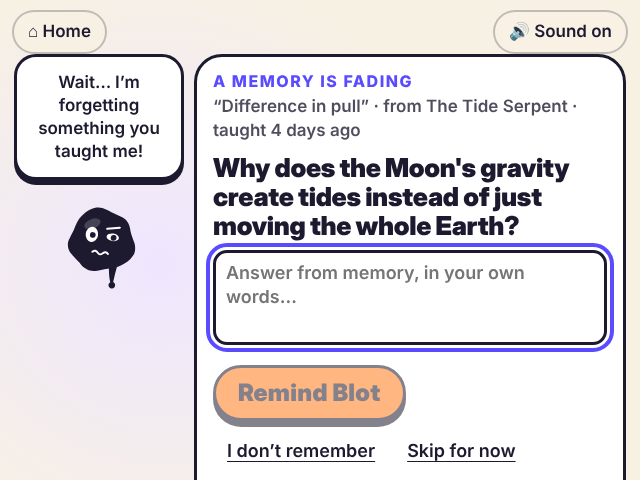
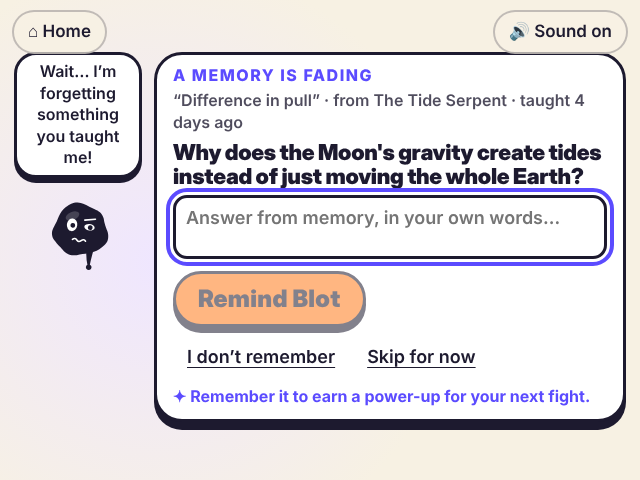
Fix the failed CI run: the flashback fits a 640x480 window with the runner's fonts
smoke:small failed on GitHub: in a 640x480 window the flashback's "Skip for now" sat at y 458-502.
The runner has no Inter, so the page falls back to DejaVu Sans, which is wider and wraps to more lines.
It passed on the dev machine because every font there resolves to Inter.

- The flashback card is made to fit a short, wide window: a narrower Blot column, a tighter card, a 22 px
  question, a shorter answer box, and a verdict header with the "checked by" line at the card's full width.
  No text goes under 16 px. The result card no longer scrolls its header under the top buttons.
- When a verdict is taller than the window (a long sentence from the grader), Continue stays pinned at the bottom.
- smoke:small forces DejaVu Sans by default, so it gives the same result on any machine that has it and would
  have caught this before the push (SMOKE_FONT= keeps the page's own fonts). Wide-font screenshots go to
  docs/shots/stress/ (ignored); the two flashback pictures in the docs are refreshed.
- Two failure screenshots committed by mistake (phone-99, small-99) are removed and ignored.

Checked: npm run check, and smoke:demo --fast, loop, small, guest and ext, all with every font on the machine
resolving to DejaVu Sans, as on the runner.

Claude-Session: https://claude.ai/code/session_01CUEnHw6YbP4y3NnKELNhtE

diff --git a/extension/styles/game.css b/extension/styles/game.css
@@ -625,14 +625,18 @@ button, a.primary { font: inherit; }
   .blot-foot { position: sticky; bottom: 0; z-index: 4; flex-wrap: wrap; justify-content: center; gap: 8px 16px; padding: 10px 0 12px; background: linear-gradient(rgba(247, 241, 227, 0), var(--paper) 28%); }
 
   /* flashback */
-  .screen-flashback { grid-template-columns: minmax(0, 1fr); align-content: start; gap: 10px; padding: 54px 14px 14px; }
+  /* No bottom padding on the screen: a pinned button then sits flush with the window, and the card keeps its own margin. */
+  .screen-flashback { grid-template-columns: minmax(0, 1fr); align-content: start; gap: 10px; padding: 54px 14px 0; }
   .flash-blot { grid-template-columns: auto minmax(0, 1fr); align-items: center; gap: 8px; }
   .flash-blot .blot { order: -1; width: 96px !important; height: 110px !important; }
   .flash-bubble { max-width: none; text-align: left; font-size: 17px; }
-  .flash-card { padding: 16px 16px; gap: 10px; max-width: 100%; }
+  .flash-card { padding: 16px 16px; gap: 10px; max-width: 100%; margin-bottom: 14px; }
   .flash-question { font-size: 26px; }
   .flash-input { min-height: 72px; }
   .flash-actions { gap: 8px; }
+  /* The verdict can be long (a sentence from the grader, the model answer): when the card is taller than the window the
+     rest scrolls and Continue stays pinned at the bottom. Its padding sits inside the card's own bottom padding. */
+  .flash-card.result .flash-actions { position: sticky; bottom: 0; z-index: 3; padding-bottom: 10px; margin-bottom: -10px; background: #fff; }
   .score-ring { width: 84px; height: 84px; }
   .score-ring span { width: 64px; height: 64px; font-size: 30px; }
 
@@ -674,12 +678,34 @@ button, a.primary { font: inherit; }
   .duel-result-card .duel-actions { flex-wrap: wrap; justify-content: center; }
 }
 
-/* A short, wide window (640x480): Blot beside the flashback card, not above it. */
+/* A short, wide window (640x480): Blot beside the flashback card, not above it, and a card made to fit the height
+   (question, answer box, the three buttons) even when the fallback font is wide. No text goes under 16 px. */
 @media (min-width: 600px) and (max-height: 560px) {
-  .screen-flashback { grid-template-columns: 170px minmax(0, 1fr); align-items: start; }
-  .flash-blot { grid-template-columns: 1fr; justify-items: center; }
-  .flash-blot .blot { order: 0; }
-  .flash-bubble { text-align: center; }
+  .screen-flashback { grid-template-columns: 128px minmax(0, 1fr); align-items: start; gap: 12px; padding: 52px 14px 0; }
+  .flash-blot { grid-template-columns: 1fr; justify-items: center; gap: 8px; }
+  .flash-blot .blot { order: 0; width: 80px !important; height: 92px !important; }
+  .flash-bubble { text-align: center; font-size: 16px; padding: 6px 8px; }
+  .flash-card { padding: 12px 16px; gap: 6px; }
+  .flash-from { margin: 0; font-size: 16px; }
+  .flash-question { font-size: 22px; }
+  .flash-input { height: 64px; min-height: 64px; }
+  #flash-note:empty { margin-top: -6px; }
+  .flash-reward { font-size: 16px; }
+  /* The verdict: the ring and the sentence side by side, the "checked by" line under both at the card's full width. */
+  .flash-result-head { display: grid; grid-template-columns: auto minmax(0, 1fr); gap: 2px 14px; align-items: center; }
+  .flash-verdict { display: contents; }
+  .flash-result-head .score-ring { grid-row: 1 / span 2; }
+  .flash-result-head .card-kicker { grid-column: 2; align-self: end; }
+  .flash-feedback { grid-column: 2; margin-top: 2px; font-size: 18px; }
+  .checked-by { grid-column: 1 / -1; margin-top: 4px; }
+  .score-ring { width: 72px; height: 72px; }
+  .score-ring span { width: 54px; height: 54px; font-size: 26px; }
+  .flash-answer { padding: 8px 12px; }
+  .flash-answer p { font-size: 17px; line-height: 1.35; }
+  .earned { gap: 10px; padding: 8px 12px; }
+  .earned-icon { width: 44px; height: 44px; font-size: 22px; }
+  .earned-name { font-size: 22px; }
+  .earned-what { font-size: 16px; }
 }
 
 @media (max-width: 599px) {

diff --git a/extension/src/game/screens/flashback.ts b/extension/src/game/screens/flashback.ts
@@ -206,7 +206,7 @@ export async function flashbackScreen(opts: FlashbackOptions): Promise<Flashback
       ring,
       h(
         'div',
-        null,
+        { class: 'flash-verdict' },
         h('p', { class: 'card-kicker' }, kicker),
         h('p', { class: 'flash-feedback', id: 'flash-feedback' }, graded.feedback || feedbackFor(graded, gradeOf)),
         got.answer

diff --git a/README.md b/README.md
@@ -180,7 +180,7 @@ A challenge for a real page lives on your server, so it opens the game your serv
 | `npm run smoke:demo` | Plays a demo round end to end in Chromium; screenshots to `docs/shots/`. Flags: `--lose`, `--no-art`, `--reduced`, `--live` (AI_STUB server), `--real` (real AI), `--blocked` / `--drop` (server cut off), `--fast`. |
 | `npm run smoke:ext` | Loads the extension, checks the first-use notice, Cancel, the options page and token, and that the game tab's monster is built from the page's words. |
 | `npm run smoke:loop` | The learning loop end to end: memories, flashback, coach, comeback, duel, resume after reload, the stage rehearsal, the presenter kit. |
-| `npm run smoke:small` | Every screen in a 640×480 window and on a phone: each control reachable and not covered. |
+| `npm run smoke:small` | Every screen in a 640×480 window and on a phone: each control reachable and not covered. Runs with a wide fallback font forced (DejaVu Sans), so the result is the same on a machine without the page's fonts, CI included; `SMOKE_FONT=` keeps the page's own fonts and refreshes `docs/shots/small-*` and `phone-*`. |
 | `npm run smoke:guest` | The hosted guest game on a public host name: a whole round, a challenge opened on a phone, no request leaves the site. |
 | `npm run test:ai` | Grounding tests with the real examiner. |
 | `npm run models:check` | One 10-token call per configured model. |

diff --git a/docs/SPEC.md b/docs/SPEC.md
@@ -461,7 +461,9 @@ the comeback, the power-ups and the duel are left alone.
 **Small windows.** Every screen works at 640×480 and on a phone (390×844): single-column teaching with the ideas as
 a strip, replay and Your Blot as scrolling pages with their buttons fixed at the bottom. A first-time player opens
 on the first idea with one visible action (Say it); the other moves appear after the first message. Sound waits
-for the first click or key.
+for the first click or key. In a short window the flashback card sits beside Blot, tightened to fit the height,
+and a long verdict scrolls under a pinned Continue. The check forces a wide fallback font (DejaVu Sans), so it
+gives the same result on a machine without the page's own fonts: a stock CI runner has none of them.
 
 **Resume.** A reload or Back and Forward during a round offers to pick it up: what was taught, Blot's beliefs and
 the time left (at least ten seconds), kept in the tab for up to 30 minutes. Leaving mid-round asks first.
